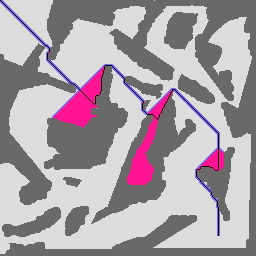
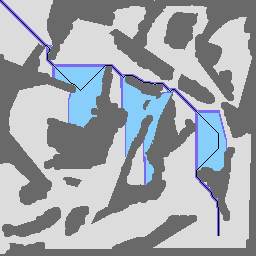
aStar implemented

diff --git a/Map.py b/Map.py
@@ -158,7 +158,7 @@ class Graph:
             
             u = openList.popL()
             vertice = u[0][0]
-            custo = u[1]
+            custo = u[0][1]
 
             if u[0][0] == destiny:
                 path.list.clear()
@@ -168,7 +168,7 @@ class Graph:
                 while i!=start:
                     path.pushB( (parent[i][0][0], custo) )
                     i = parent[i][0][0]
-                return u[1], path, openList, closedList
+                return u[0][1], path, openList, closedList
 
             closedList.pushB( vertice )
             visitados [ vertice ] = 2
@@ -192,6 +192,76 @@ class Graph:
                         parent[i[0]] = (u[0], custo)
                         Custo[i[0]] = custo+i[1]
                         openList.insertPriority( [i[0], custo+i[1] ], h )
+
+                    # u[1]: Custo empilhado até vértice u[0].
+                    # i[1]: Custo do vértice u[0] para i[0]
+                    # u[2]: level do nó u
+        
+        if(cost==-1):
+            return -1, None, None, None
+        else:
+            return cost, path, openList, closedList
+
+# A-star
+    def aStar( self, start, destiny, heuristica ):
+        visitados   = [ 0 for i in range(self.v) ]
+        parent      = [ -1 for i in range(self.v) ]
+        level       = [ -1 for i in range(self.v) ]
+        Custo       = [ 80000000000 for i in range(self.v) ]
+        openList    = List()
+        closedList  = List()
+        path        = List()
+        cost = -1
+
+        print(start, destiny)
+
+        goalx = int (destiny/self.lines)
+        goaly = int ( destiny - goalx*self.lines )
+
+        #Empilhando o vértice inicial e o custo até ele (0)
+        visitados[start]    = 1
+        level[start]        = 0
+        Custo[start]        = 0
+        openList.insertPriority( [start, 0], 0 )
+
+        while openList.elements > 0:
+            
+            u = openList.popL()
+            vertice = u[0][0]
+            custo = u[0][1]
+
+            if u[0][0] == destiny:
+                path.list.clear()
+                i = u[0][0]
+
+                path.pushB( (i, custo) )
+                while i!=start:
+                    path.pushB( (parent[i][0][0], custo) )
+                    i = parent[i][0][0]
+                return u[0][1], path, openList, closedList
+
+            closedList.pushB( vertice )
+            visitados [ vertice ] = 2
+
+            for i in self.adj[ vertice ]: 
+
+                x = int ( i[0] /self.lines)
+                y = int ( i[0] - x*self.lines )
+
+                dx = abs( x - goalx )
+                dy = abs( y - goaly )
+
+                h = dx + dy
+
+                if visitados[i[0]]== 1 and Custo[i[0]]>custo+i[1]:
+                    Custo[i[0]] = custo+i[1]
+                    openList.insertPriority( [i[0], custo+i[1] ], custo+i[1]+h )
+                else:
+                    if visitados[i[0]]==0:
+                        visitados[ i[0] ] = 1
+                        parent[i[0]] = (u[0], custo)
+                        Custo[i[0]] = custo+i[1]
+                        openList.insertPriority( [i[0], custo+i[1] ], custo+i[1]+h )
 
                     # u[1]: Custo empilhado até vértice u[0].
                     # i[1]: Custo do vértice u[0] para i[0]
@@ -315,6 +385,10 @@ class Map:
         custo, path, openl, closedl = map.graph.bfs( src, dst )
         return custo, path, openl, closedl
 
+    def aStar(self, start, destiny, heuristica ):
+        custo, path, openl, closedl = map.graph.aStar( src, dst, heuristica )
+        return custo, path, openl, closedl
+
     def printPath(self, path):
         celulas = []
 
@@ -361,7 +435,7 @@ def printRoute(map, path, openL, closedL):
                 else:
                     if C.__contains__( (i*map.mapWidth)+j ):
                         #m[i][j] = [100, 100, 100, 100]
-                        array[i, j] = [255,20,147]
+                        array[i, j] = [135,206,250]
                     else:
                         if map.map[i][j] == 1:
                             #m[i][j] = [150, 150, 150, 150]
@@ -417,7 +491,7 @@ x = int( sys.argv[4] )
 y = int( sys.argv[5] )
 dst = x*map.mapWidth+y
 
-custo, path, o, c = map.bfs(src, dst)
+custo, path, o, c = map.aStar(src, dst, 1)
 print(custo)
 if custo != -1:
     printRoute(map, path, o, c)
